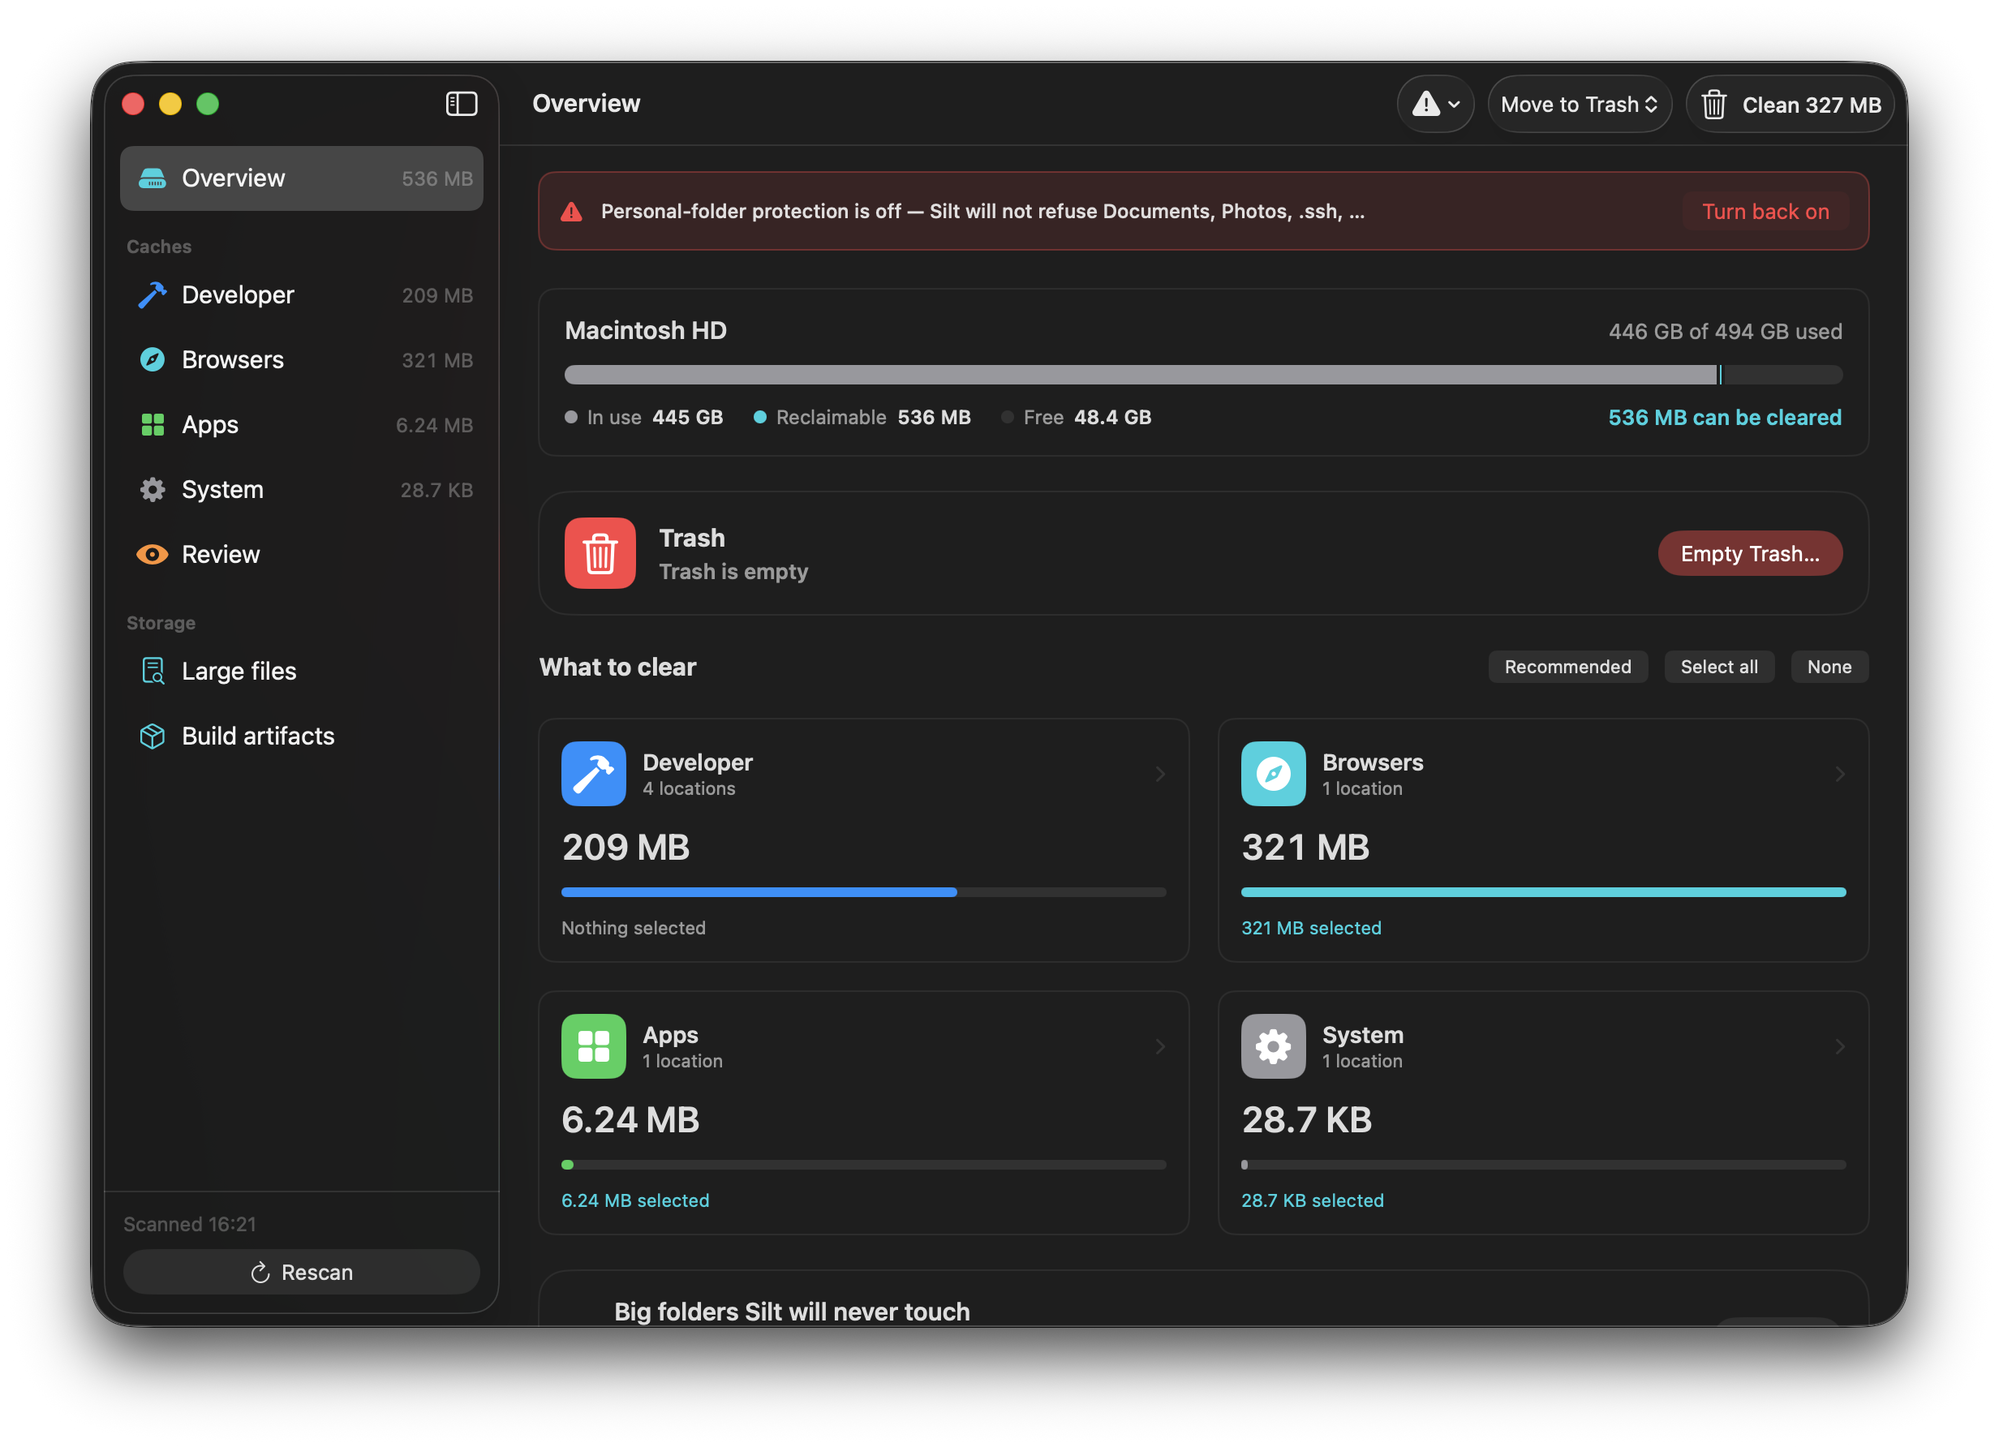
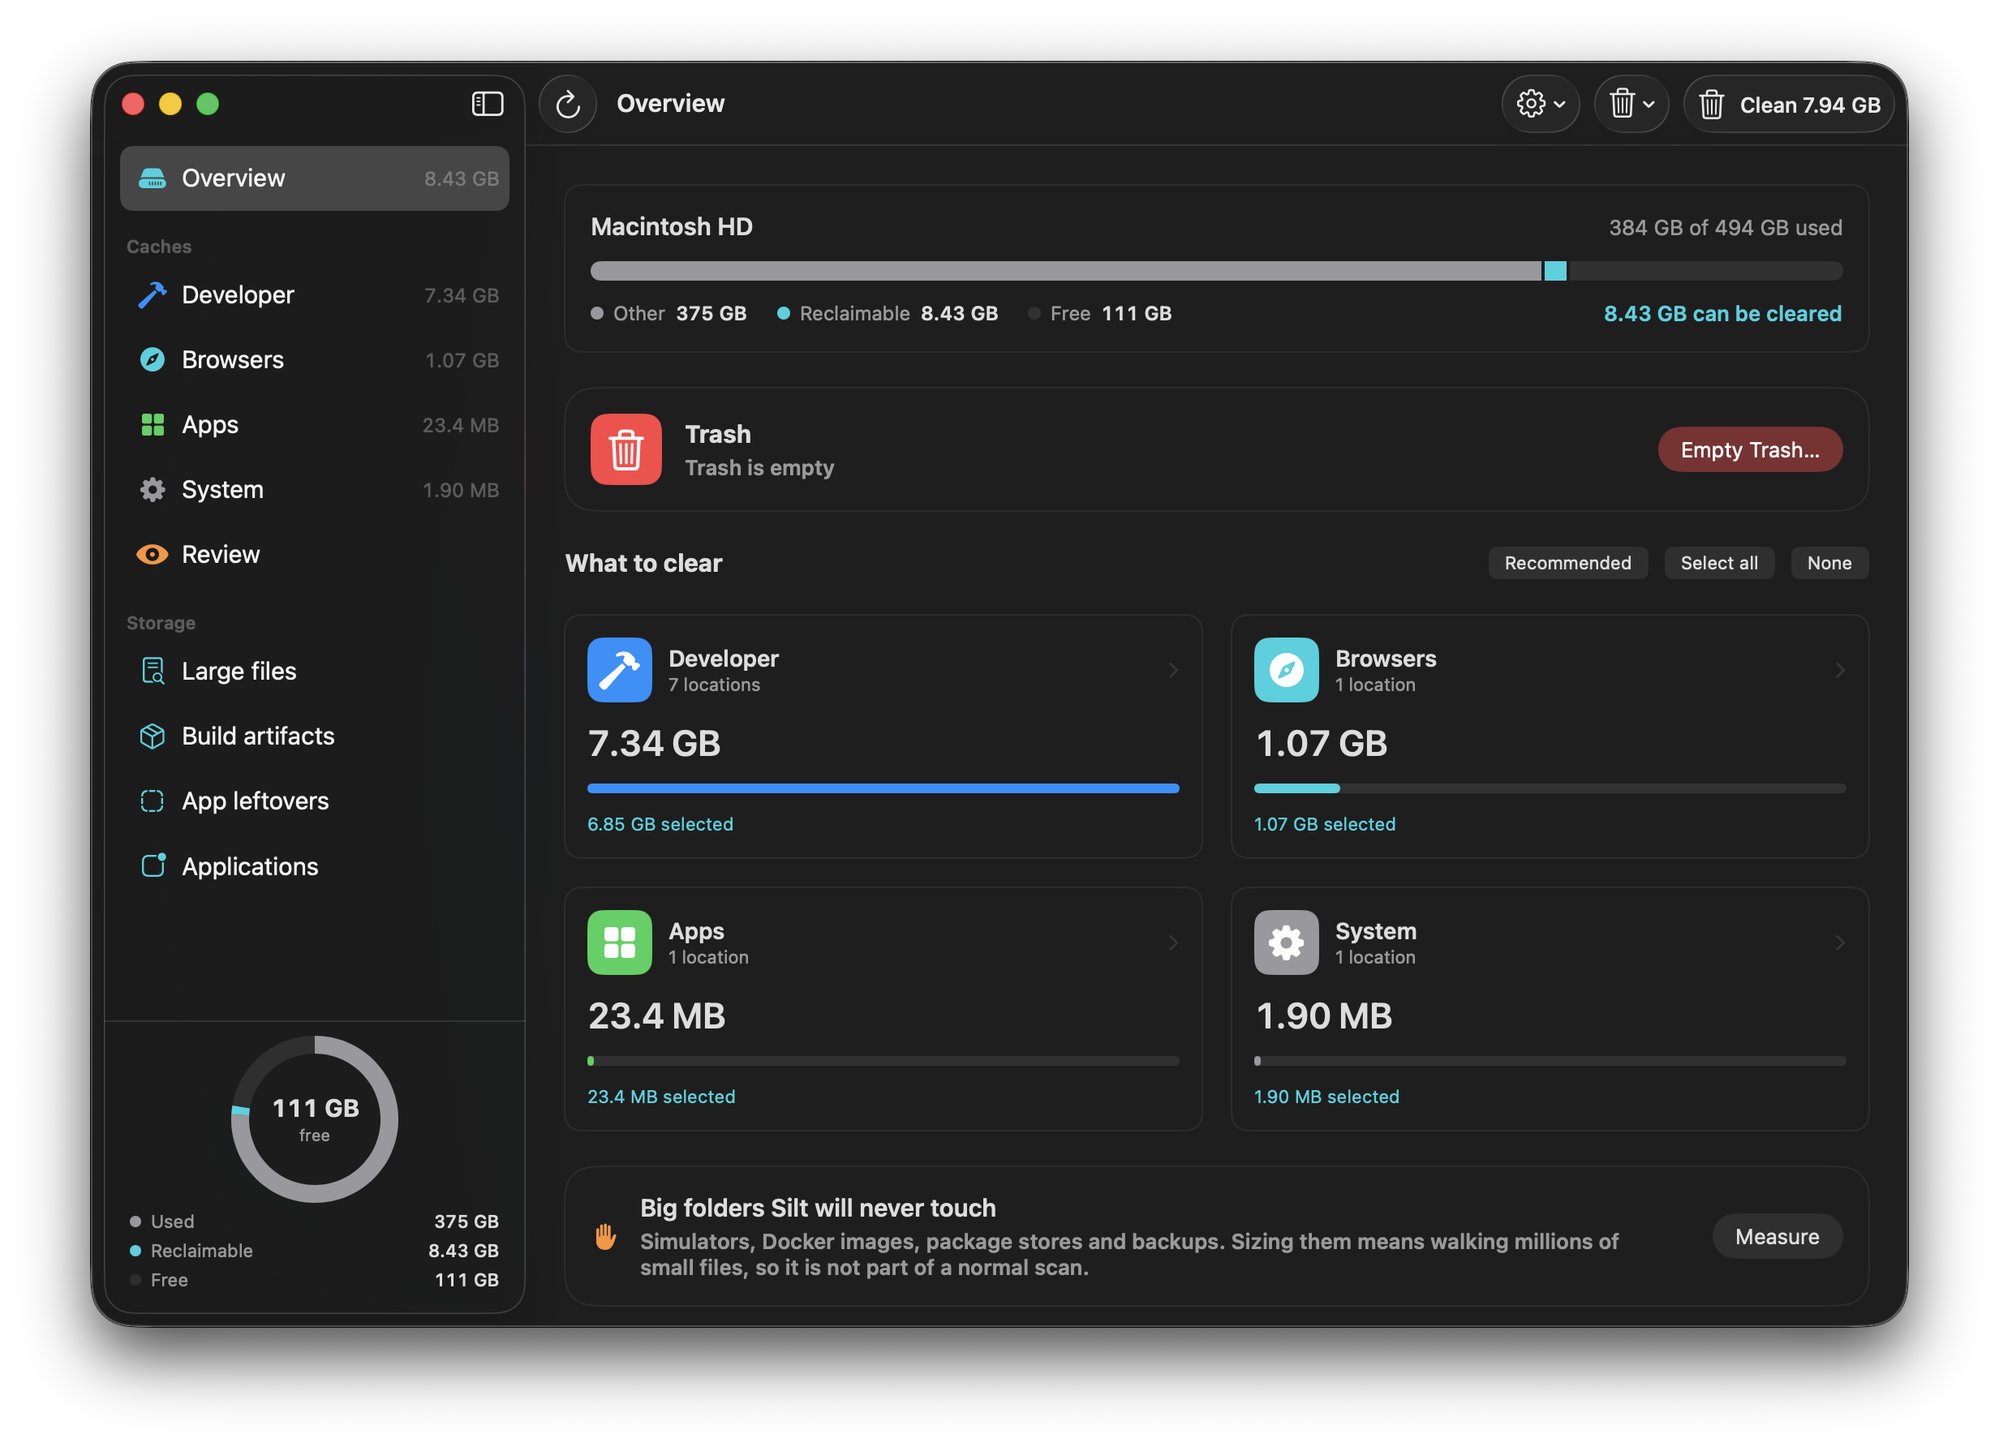
docs: rewrite the README and refresh its screenshot
New screenshot showing the capacity ring, Trash card and the current
sidebar. The text was stale and slop-flecked, so it went through the
no-ai-slop pass:

- Documents the features added since it was written: build artifacts,
  applications/uninstaller, app leftovers, and the settings toggle.
- Corrects "16 tests" to 28 and brings the Layout block back in line
  with the actual source tree.
- Adds a Permissions section covering Full Disk Access, App Management
  and the Finder automation fallback, and says plainly what works
  without each. Adds the requirement line and the releasing doc.
- Removes every em dash (was 30-odd), rewrites three stacked sentence
  fragments in the safety paragraph into full sentences, drops the
  "Safety, in one paragraph" metadiscourse heading, and cuts synonym
  cycling in the feature list.
- States honestly that there is no license file yet.

diff --git a/README.md b/README.md
@@ -2,7 +2,7 @@
 
 # Silt
 
-*Silt is what settles on a disk. This clears it.*
+Silt is what settles on a disk. This clears it.
 
 A small, deliberately boring macOS disk cleaner. SwiftUI, no dependencies, no network access,
 no background agent, no "1 GB of junk found!" theatre.
@@ -13,36 +13,33 @@ no background agent, no "1 GB of junk found!" theatre.
 
 ## What it does
 
-- **Measures [123 known cache and log locations](docs/catalog.md)** across 25+ language
-  ecosystems — npm, Gradle, Maven, Cargo, pip/uv/Poetry/Conda, CocoaPods, Composer, Bundler,
-  NuGet, Hex, opam, Cabal, and the rest — each with a plain-language line about what happens
-  if it goes.
-- **Lists the biggest files on the disk**, sorted by size and classified by what they are —
-  video, archives, disk images, binaries (detected down to the Mach-O magic number), bundles
-  counted as single items.
-- **Clears only what you tick.** Trash by default, so everything is recoverable; permanent
-  deletion is a separate, clearly marked mode. Hand-picked files are Trash-only.
-- **Uninstalls applications properly** — an icon grid of what is installed, with size and
-  last-opened date, search and filters; removing an app takes its Application Support,
-  caches, preferences, containers and login items with it, matched on bundle id and moved to
-  the Trash.
-- **Finds leftovers from apps you already deleted** — the eleven per-user Library locations,
-  matched against installed bundle ids, with low-confidence guesses shown but never removable.
-- **Refuses to touch what it shouldn't.** Simulators, Docker images, package stores, backups —
-  shown with their size and the correct native command instead of a delete button.
+**Caches.** Measures [123 known cache and log locations](docs/catalog.md) across 25+ language
+ecosystems: npm, Gradle, Maven, Cargo, pip, uv, Poetry, Conda, CocoaPods, Composer, Bundler,
+NuGet, Hex, opam, Cabal and the rest. Every location carries a plain-language line about what
+happens if you clear it, and the tool's own prune command where one exists.
 
-A normal scan takes about **one second** and the first result is on screen in milliseconds —
-the numbers and how they were reached are in [docs/performance.md](docs/performance.md).
+**Build artifacts.** Finds `node_modules`, `.venv`, `Pods`, `target`, `vendor`, `.next`,
+`elm-stuff`, `_build` and friends across your projects. A folder only counts when its marker
+file sits beside it, so a `target` directory without a `Cargo.toml` is left alone. Rows show
+when the project itself was last touched, which is usually what tells you it is safe to drop.
 
-## Safety, in one paragraph
+**Large files.** Everything over a threshold you pick, sorted by size, classified by what it
+is: video, archives, disk images, binaries (detected down to the Mach-O magic number),
+documents. Bundles like `.app` and `.photoslibrary` count as one item instead of thousands.
 
-Three independent gates stand in front of every removal: a hand-written **catalog allow-list**
-(paths cannot enter the pipeline from anywhere else), a **review-only kind** the cleaner
-re-checks independently, and **per-path SafetyGuard rules** — home-folder containment, a
-protected-location denylist (Documents, Desktop, `~/.ssh`, Keychains, iCloud, Photos, …), no
-symlink following, no `..`. Folders stay in place; only their contents are cleared. The full
-model, including what the Large Files view refuses, is in [docs/safety.md](docs/safety.md),
-and 16 tests hold it in place.
+**Applications.** An icon grid of what is installed, with size and last-opened date, search
+and filters. Uninstalling takes the app's Application Support, caches, preferences,
+containers and login items with it, matched on bundle id.
+
+**App leftovers.** Data from apps you already deleted, across eleven per-user Library
+locations. Reverse-DNS matches with no installed app are removable; bare-name guesses are
+shown but locked, because a Homebrew-installed tool has no `.app` to prove it is still there.
+
+**Things it refuses to delete.** Simulators, Docker images, package stores, backups. Shown
+with their size and the correct native command instead of a delete button.
+
+A normal scan takes about one second and the first result appears in milliseconds. The
+measurements behind that are in [docs/performance.md](docs/performance.md).
 
 ## Install
 
@@ -50,59 +47,87 @@ and 16 tests hold it in place.
 brew install --cask thabti/tap/silt
 ```
 
-Signed but not yet notarized — right-click → Open on first launch. Or grab the dmg from
-[Releases](https://github.com/thabti/silt/releases).
+Signed but not yet notarized, so right-click and choose Open on first launch. The dmg is also
+on the [releases page](https://github.com/thabti/silt/releases).
 
-## Running it locally
+Requires macOS 14 or later, Apple silicon.
 
-Requirements: macOS 14+, Xcode command-line tools, and
-[XcodeGen](https://github.com/yonaskolb/XcodeGen). The `.xcodeproj` is generated from
-`project.yml` and git-ignored — edit `project.yml`, never the project file.
+## Safety
+
+Three independent gates stand in front of every removal. The first is a hand-written catalog
+allow-list, so paths cannot enter the pipeline from anywhere else. The second is a review-only
+kind that the cleaner re-checks on its own. The third is a set of per-path `SafetyGuard` rules
+covering home-folder containment, a protected-location denylist over Documents, Desktop,
+`~/.ssh`, Keychains, iCloud Drive and Photos, no symlink following, and no `..` traversal.
+
+Cleaning moves things to the Trash by default, so you can put them back. Permanent deletion
+is a separate mode you have to pick. Folders stay in place and only their contents are
+cleared, because apps expect their own cache directory to exist. Hand-picked files and
+uninstalled apps always go to the Trash.
+
+The protected-location list can be switched off in Settings. While it is off, every page
+carries a warning banner and the toolbar icon turns red, and the structural rules stay on.
+
+28 tests cover the guard, including one that walks the whole catalog and asserts every
+deletable entry passes and every review entry does not. Full details in
+[docs/safety.md](docs/safety.md).
+
+## Permissions
+
+Silt asks for nothing at launch and works without any of these:
+
+- **Full Disk Access** lets it read Safari's cache and app containers. Without it those show
+  as *Partly locked* rather than being silently under-counted.
+- **App Management** is what macOS requires before any app can move another app out of
+  `/Applications`. Without it, uninstalling reports a blocked result with a button to the
+  right settings pane.
+- **Finder automation** is the fallback when App Management is off. Finder is always allowed
+  to trash an application, so Silt asks it to do the move.
+
+The app is not sandboxed, deliberately. A sandboxed app cannot read another app's caches.
+
+## Building from source
 
 ```bash
 git clone git@github.com:thabti/silt.git
 cd silt
 brew install xcodegen          # once
 make run                       # generate project, build, launch
-
-# or work in Xcode: make generate && open Silt.xcodeproj, scheme "Silt", ⌘R
 ```
 
-`make help` lists everything else — `test`, `signed`, `dmg`, `release` (sign → notarize →
-staple), `docs`, `icon`.
+`Silt.xcodeproj` is generated from `project.yml` and git-ignored, so edit `project.yml` rather
+than the project file. Local builds are unsigned: no team, no provisioning, nothing to
+configure. For Xcode, run `make generate` and open the project.
 
-Builds are unsigned for local use — no team, no provisioning, nothing to configure. The app
-asks for no permissions at launch; granting **Full Disk Access** (System Settings › Privacy &
-Security) additionally lets it read Safari's cache and app containers, which are otherwise
-shown as *Partly locked*. It is deliberately not sandboxed — a sandboxed app cannot read other
-apps' caches.
-
-Tests: `make test`.
+`make help` lists the rest: `test`, `signed`, `dmg`, `release` (sign, notarize, staple),
+`docs`, `icon`.
 
 ## Documentation
 
-Everything deeper lives in [`docs/`](docs/README.md):
-
 | | |
 |---|---|
-| [Architecture](docs/architecture.md) | catalog → scanner → index → cleaner, and why |
-| [Safety model](docs/safety.md) | the three gates, the exact guard rules |
-| [Catalog reference](docs/catalog.md) | all 123 locations, generated from source |
-| [Performance](docs/performance.md) | 96 s → 1 s, measured; what was rejected and why |
-| [Design language](docs/design.md) | the System Settings reference, light & dark |
-| [Development](docs/development.md) | building, testing, adding locations, regenerating artifacts |
+| [Architecture](docs/architecture.md) | catalog to scanner to index to cleaner, and why |
+| [Safety model](docs/safety.md) | the three gates and the exact guard rules |
+| [Catalog reference](docs/catalog.md) | all 123 locations, generated from the source |
+| [Performance](docs/performance.md) | 96s to 1s, measured, and what was rejected |
+| [Design language](docs/design.md) | the System Settings reference, light and dark |
+| [Development](docs/development.md) | building, testing, adding locations |
+| [Releasing](docs/releasing.md) | signing, notarizing, the Homebrew tap |
 
 ## Layout
 
 ```
 Sources/Silt/
-  Models/       catalog (the allow-list), scan types, file classification
-  Services/     SafetyGuard, Scanner, FileScanner, Cleaner, DiskSpace
-  ViewModels/   AppModel — all state, pre-aggregated ScanIndex
-  Views/        overview, category detail, large files, sheets
+  Models/       catalog (the allow-list), scan types, file and leftover classification
+  Services/     SafetyGuard, the four scanners, Cleaner, TrashService, DiskSpace
+  ViewModels/   AppModel: all state, plus a pre-aggregated ScanIndex the views read
+  Views/        overview, category detail, large files, artifacts, leftovers,
+                applications, capacity ring, sheets
   Design/       theme: one teal accent, system palette, flat cards
-Tests/SiltTests/  safety rules, catalog integrity, classification
-docs/             the documentation above + dump-catalog tool
-Icon/             icon artwork + generator script
+Tests/SiltTests/  guard rules, catalog integrity, classification
+docs/             the documentation above, plus the catalog generator
+Icon/             icon artwork and its generator script
 project.yml       source of truth for the Xcode project
 ```
+
+Personal project, built in the open. No license file yet, so all rights reserved for now.
